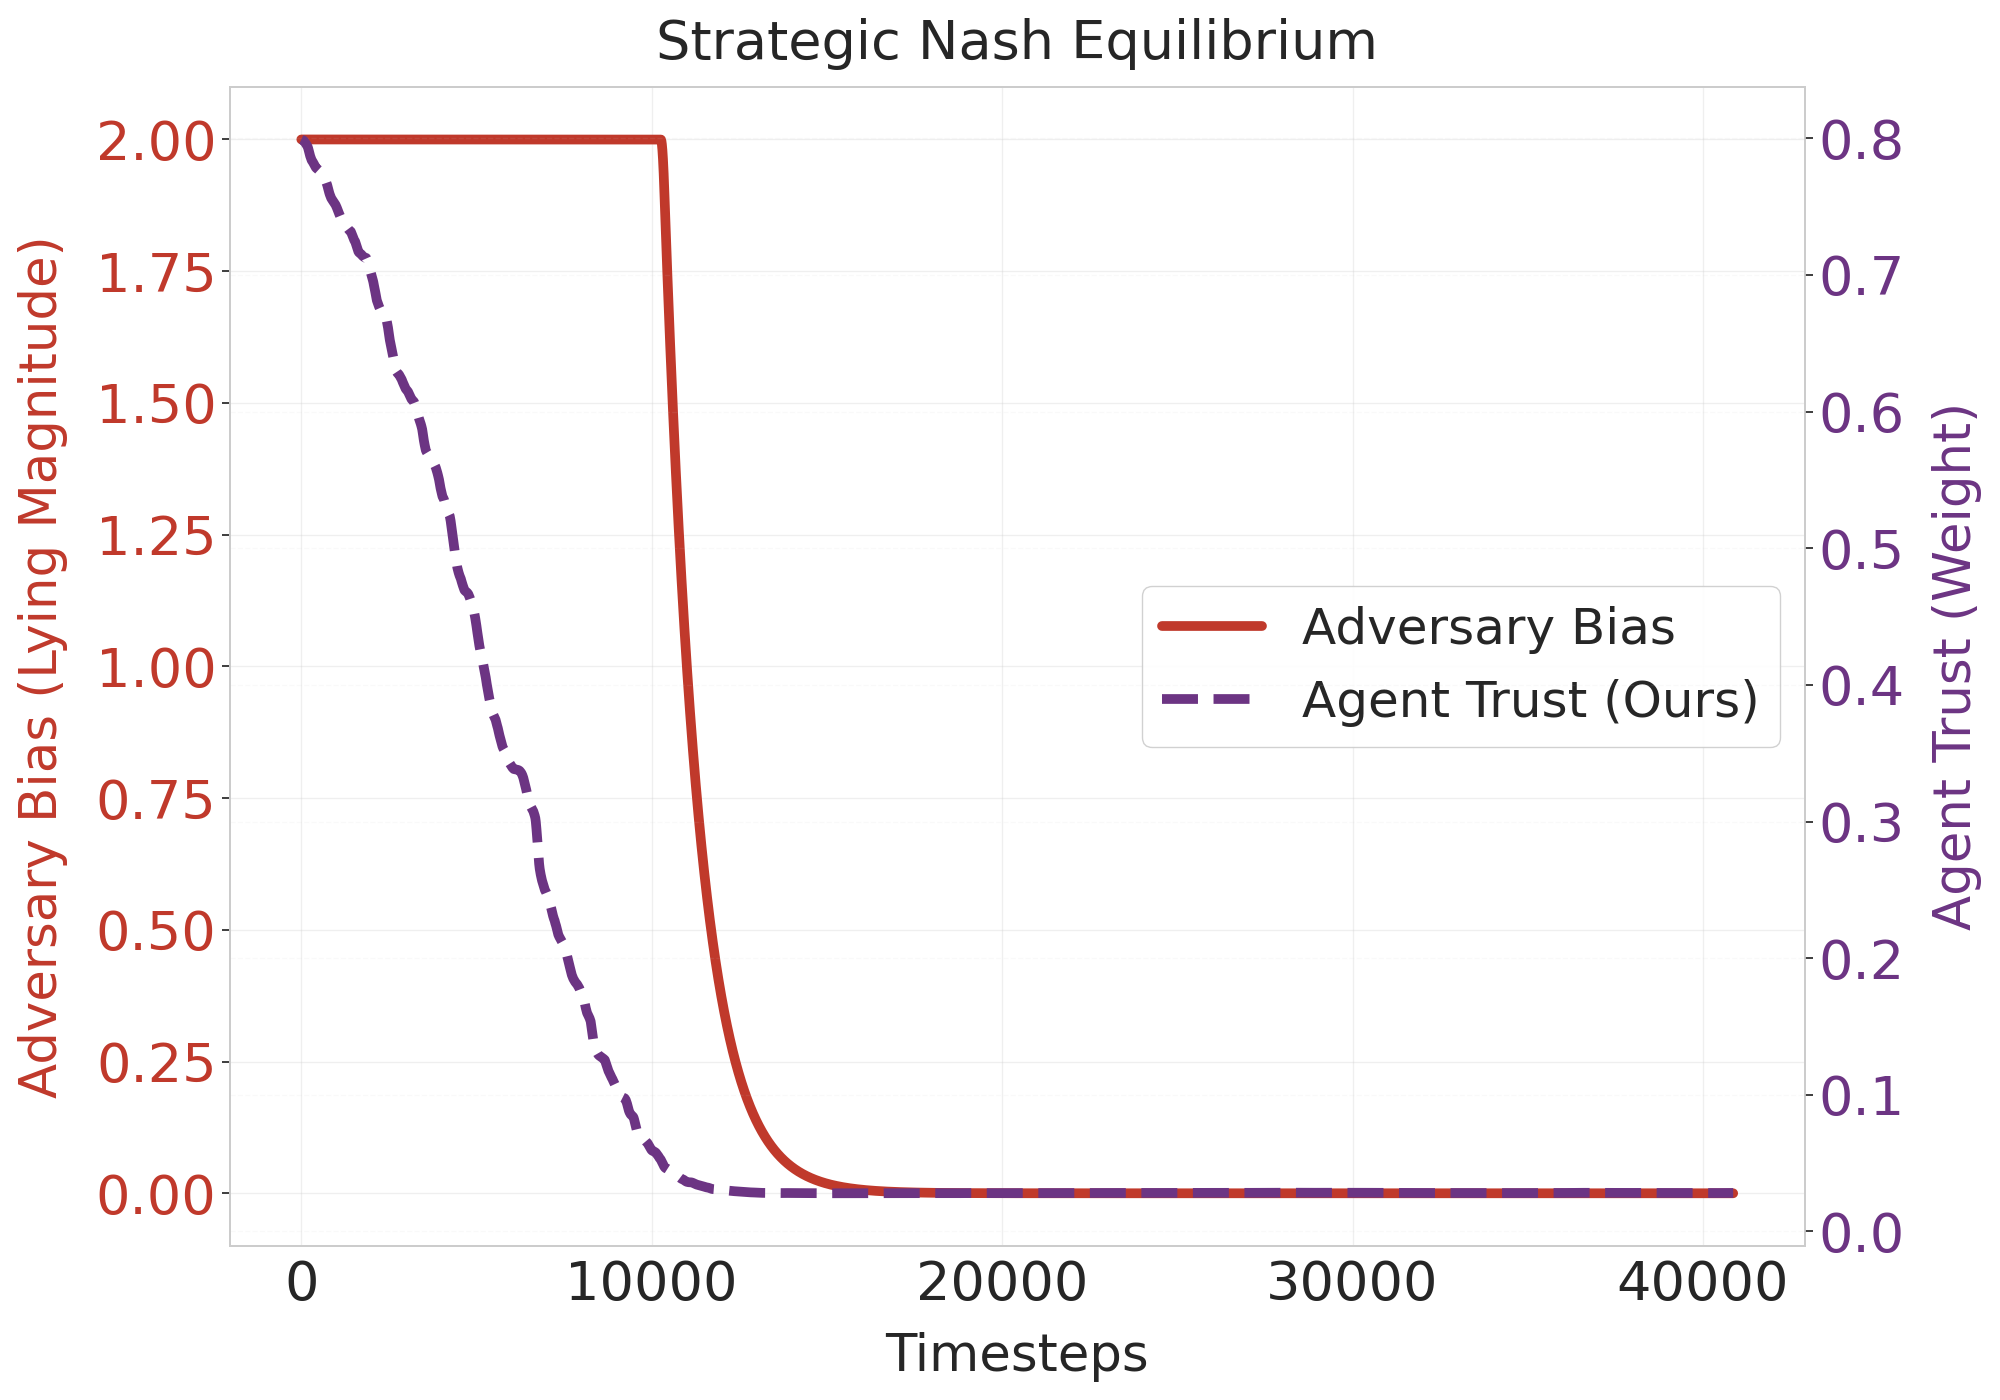
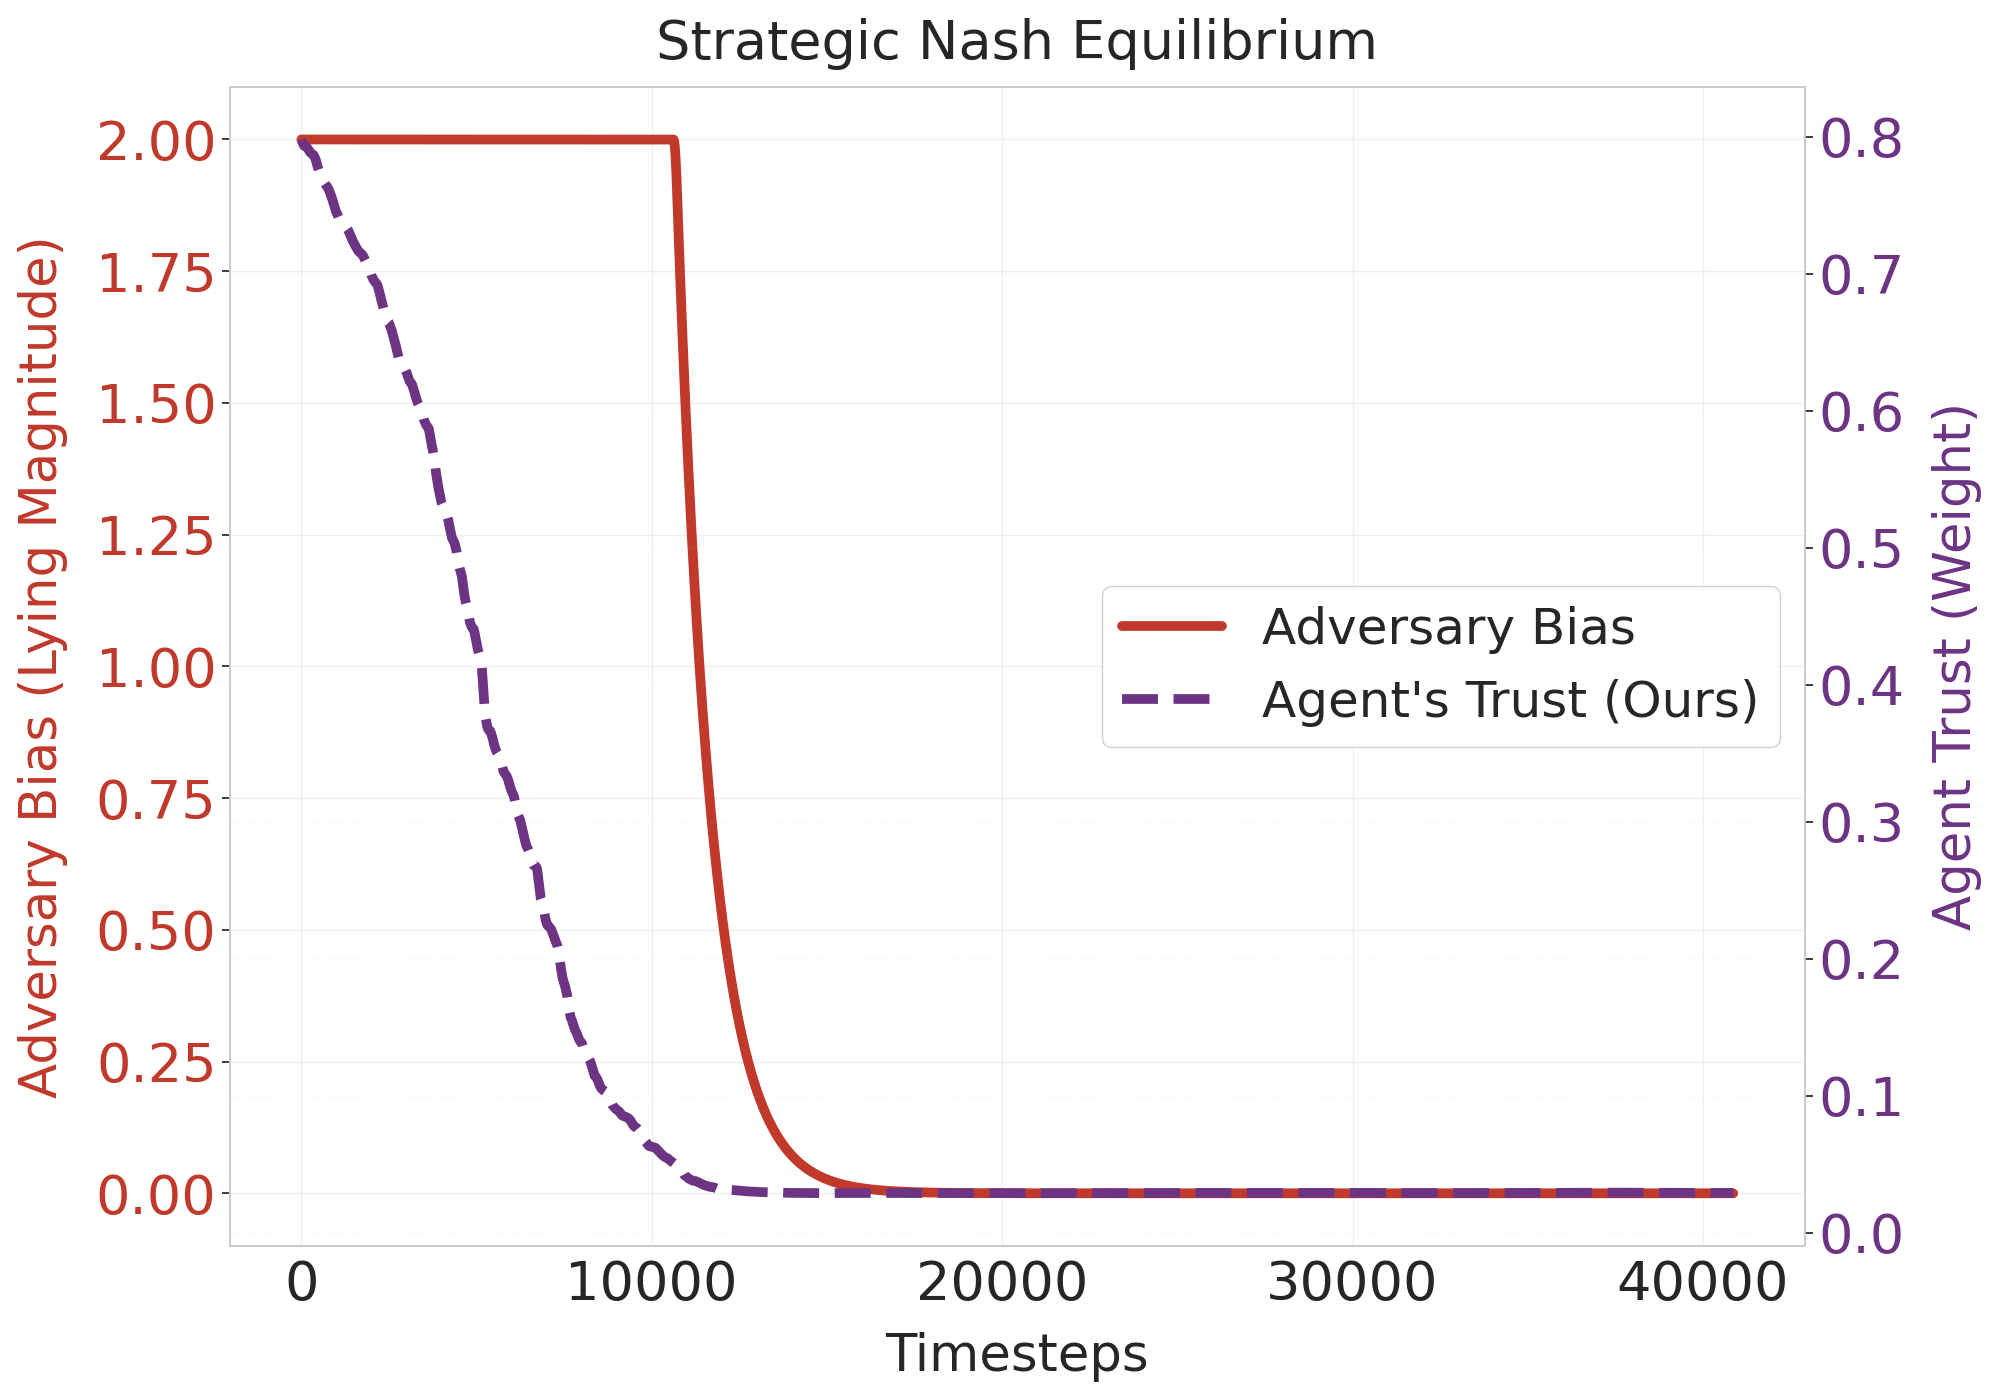
Lenegs for each plot are Updated  for some experiments

diff --git a/src/run_bandit.py b/src/run_bandit.py
@@ -10,7 +10,7 @@ from src.agents import Dogma4Agent, InternalFeedbackAgent, DawidSkeneAgent
 # --- CONFIG ---
 STEPS = 5000
 SEEDS = 25
-BIAS_RATIO = 0.2  # 80% Sycophants (Majority!)
+BIAS_RATIO = 0.0  # 80% Sycophants (Majority!)
 
 # Colors
 COLOR_OURS = '#6C3483'       # Deep Purple
@@ -135,7 +135,7 @@ if __name__ == "__main__":
     plt.fill_between(x, mean_ds - std_ds, mean_ds + std_ds, color=COLOR_DAWID, alpha=0.15)
 
     # 3. Internal-Feedback (Ours)
-    plt.plot(x, mean_i, label="Internal-Feedback (Ours)", color=COLOR_OURS, linewidth=3)
+    plt.plot(x, mean_i, label="ESA (Ours)", color=COLOR_OURS, linewidth=3)
     plt.fill_between(x, mean_i - std_i, mean_i + std_i, color=COLOR_OURS, alpha=0.15)
 
     # Styling
@@ -158,5 +158,5 @@ if __name__ == "__main__":
 
     if not os.path.exists('paper/figures'):
         os.makedirs('paper/figures')
-    plt.savefig('paper/figures/exp2_bandit_regret_comparison_2.png', dpi=300)
+    plt.savefig('paper/figures/exp2_bandit_regret_comparison_0.png', dpi=300)
     print("Done. Saved to paper/figures/exp2_bandit_regret_comparison.png")

diff --git a/src/advanced_experiments.py b/src/advanced_experiments.py
@@ -167,7 +167,7 @@ if __name__ == "__main__":
 
     # Line 2: Agent Trust (Now PURPLE to match "Ours")
     ax2 = ax1.twinx()
-    ln2 = ax2.plot(x_steps, trust_smooth, color=COLOR_OURS, label='Agent Trust (Ours)', linestyle='--', linewidth=7)
+    ln2 = ax2.plot(x_steps, trust_smooth, color=COLOR_OURS, label='Agent\'s Trust (Ours)', linestyle='--', linewidth=7)
     
     ax2.set_ylabel('Agent Trust (Weight)', fontsize=LABEL_FS, color=COLOR_OURS, labelpad=20)
     ax2.tick_params(axis='y', labelcolor=COLOR_OURS, labelsize=TICK_FS)
@@ -186,7 +186,7 @@ if __name__ == "__main__":
     plt.figure(figsize=(20, 14))
     ax3 = plt.gca()
     
-    methods = ['IRL / GAIL\n(Mimics Majority)', 'Internal-Feedback\n(Ours)']
+    methods = ['IRL / GAIL\n(Mimics Majority)', 'ESA\n(Ours)']
     scores = [irl_score, our_score]
     # Bar 2 is already using COLOR_OURS (Purple)
     colors = [COLOR_IRL, COLOR_OURS]

diff --git a/src/sycophantic_hopper.py b/src/sycophantic_hopper.py
@@ -124,7 +124,7 @@ if __name__ == "__main__":
     mean_ours, std_ours = get_rolling_stats(r_ours)
     if len(mean_ours) > 0:
         x_axis = np.arange(len(mean_ours))
-        plt.plot(x_axis, mean_ours, label='Internal-Feedback (Ours)', color=COLOR_OURS, linewidth=5)
+        plt.plot(x_axis, mean_ours, label='ESA (Ours)', color=COLOR_OURS, linewidth=5)
         plt.fill_between(x_axis, mean_ours - std_ours, mean_ours + std_ours, color=COLOR_OURS, alpha=0.2)
         
     plt.title('Latent Reward (Hopper Velocity)\n80% Adversarial Evaluators', fontsize=TITLE_FS)

diff --git a/src/run_sycophant.py b/src/run_sycophant.py
@@ -120,7 +120,7 @@ if __name__ == "__main__":
     plt.fill_between(x_m, mean_m - std_m, mean_m + std_m, color=COLOR_ROBUST, alpha=0.15)
 
     # 3. Ours
-    plt.plot(x_i, mean_i, label="Internal-Feedback (Ours)", color=COLOR_OURS, linewidth=3)
+    plt.plot(x_i, mean_i, label="ESA (Ours)", color=COLOR_OURS, linewidth=3)
     plt.fill_between(x_i, mean_i - std_i, mean_i + std_i, color=COLOR_OURS, alpha=0.15)
 
     # Formatting
